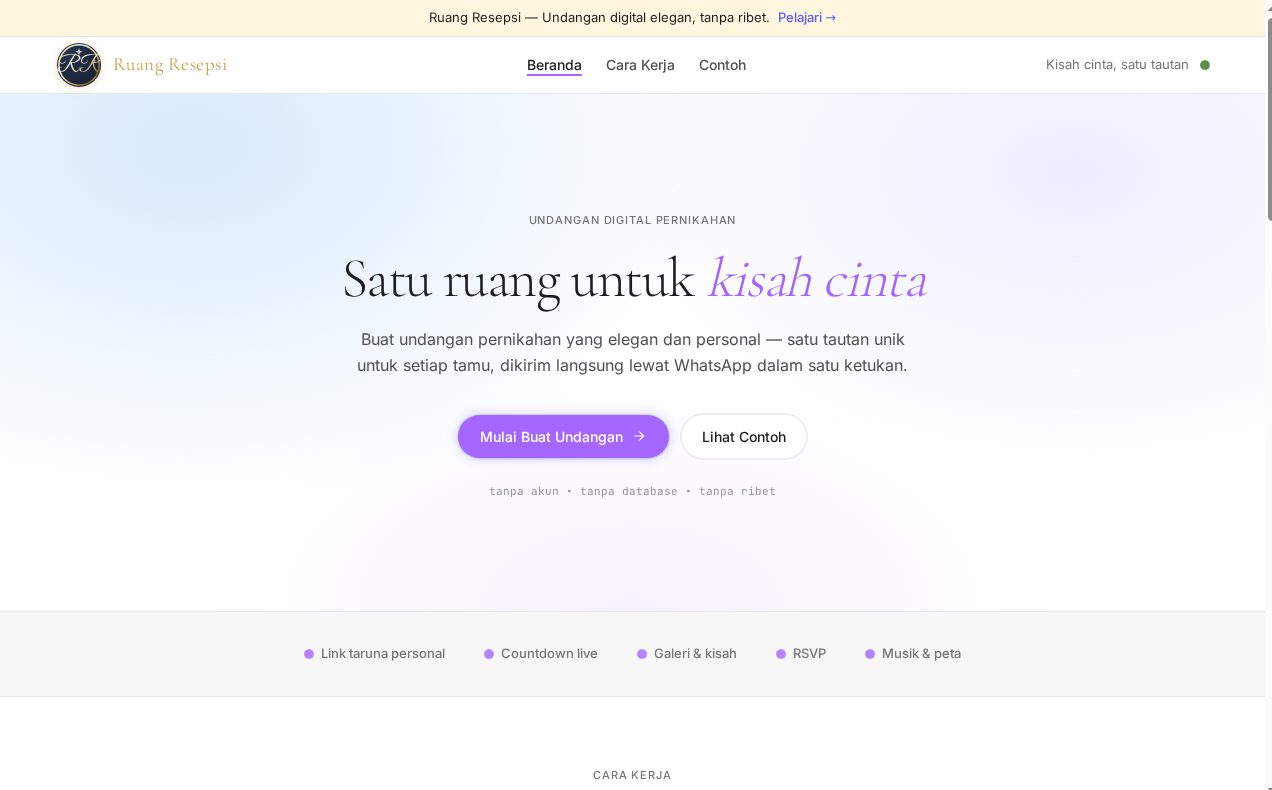
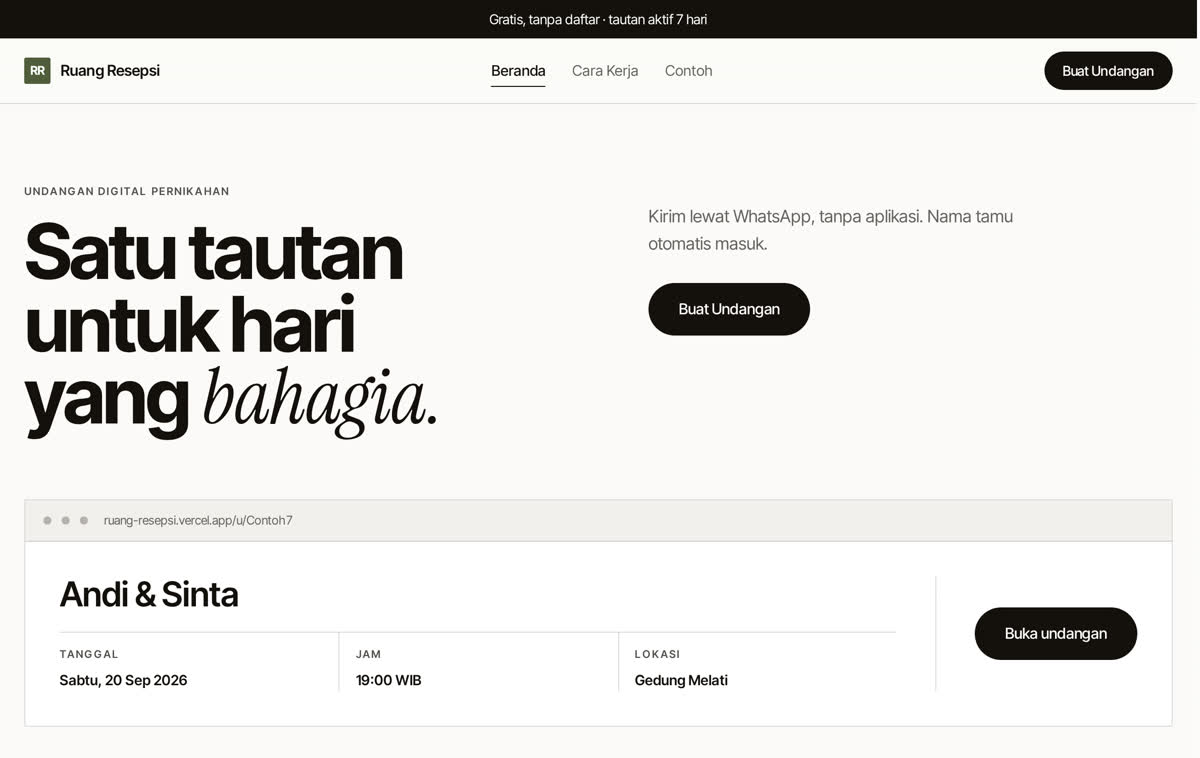
chore(karya): perbarui tangkapan layar dan deskripsi ruang-resepsi
Ruang Resepsi baru saja dirombak total (PR #1 di repo-nya, sudah merge):
landing violet dan undangan dusty-blue disatukan jadi satu sistem editorial
olive, dan informasi yang berlebih dipangkas supaya halaman terasa lega.

Tangkapan layar lama masih memperlihatkan desain violet yang sudah tidak ada,
jadi kartu karya menampilkan produk yang tidak lagi cocok dengan tautan live-nya.

- public/output/ruang-resepsi.jpg: ambil ulang dari produksi
  (ruang-resepsi.vercel.app) pada 1200x750 atau 16:10, deviceScaleFactor 2,
  dipotong 24px untuk membuang scrollbar, lalu di-encode JPEG q6 -> 56 KB.
  Rasio 16:10 sama dengan aspect-[16/10] di kartu, jadi tidak ada crop aneh.
- src/app/page.tsx: deskripsi kartu diperbaiki. Versi lama menulis 'tanpa
  backend, datanya menempel di tautan', padahal repo punya tiga endpoint
  serverless (create/invite/cleanup) dan menyimpan foto di Vercel Blob.
  Stack 'WhatsApp/Frontend-only' diganti 'Vercel Blob/Serverless'.
  alt ikut menyebut tema olive.

Verifikasi: npm test 76/76 lolos, tsc --noEmit bersih, build lolos
(BUILD_ID EaME7c4z), next start di port 3111 - kartu render dengan
gambar 490x309 natural, deskripsi & stack baru muncul, overflow 375px = 0.

diff --git a/src/app/page.tsx b/src/app/page.tsx
@@ -20,9 +20,9 @@ const projects = [
   {
     name: "ruang-resepsi",
     shot: "/output/ruang-resepsi.jpg",
-    alt: "Tampilan ruang-resepsi: hero undangan digital",
-    desc: "Undangan pernikahan digital dengan satu tautan personal per tamu, aktif 7 hari. Tanpa backend, datanya menempel di tautan.",
-    stack: ["HTML", "WhatsApp", "Frontend-only"],
+    alt: "Tampilan ruang-resepsi: hero undangan digital bertema olive",
+    desc: "Undangan pernikahan digital dengan satu tautan personal per tamu, aktif 7 hari. Foto dan data tamu disimpan di Vercel Blob, lalu terhapus otomatis.",
+    stack: ["HTML", "Vercel Blob", "Serverless"],
     live: "https://ruang-resepsi.vercel.app",
     href: "https://github.com/khamimzarr/ruang-resepsi",
   },
